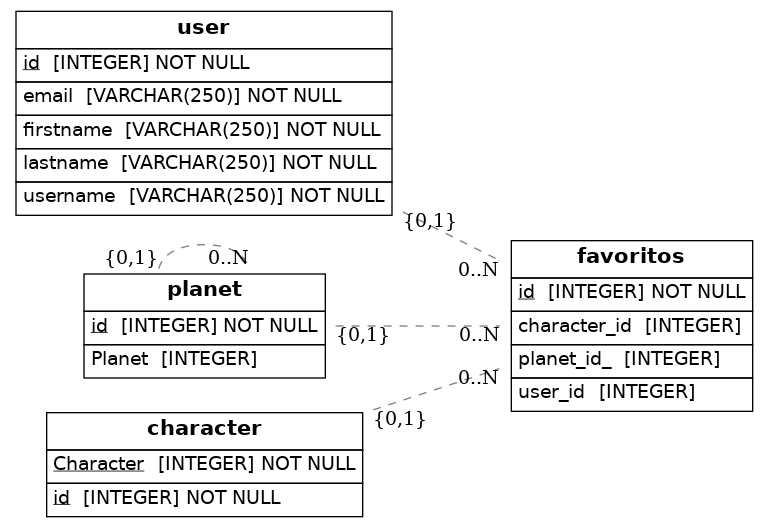
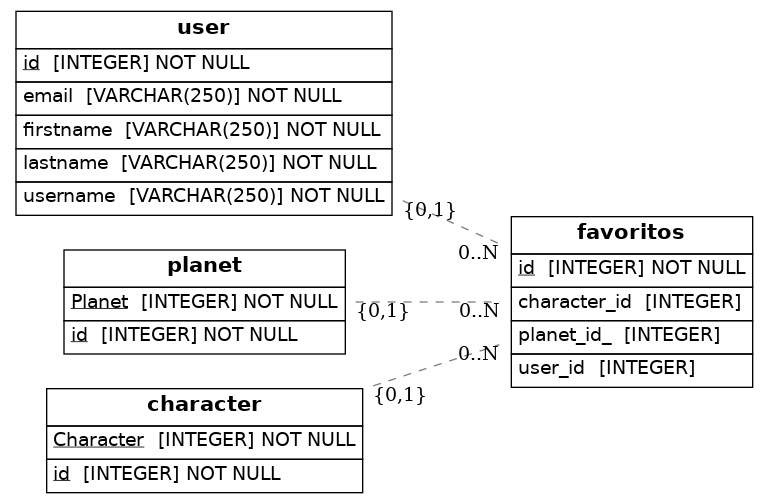
listo

Changed region(s): [[0.0625, 0.4175, 0.9688, 0.9841], [0.0, 0.0, 0.5938, 0.4473]]

diff --git a/src/models.py b/src/models.py
@@ -29,7 +29,7 @@ class Favoritos (Base):
 class Planet (Base):
     __tablename__='planet'
     id=Column (Integer,primary_key=True)
-    Planet=Column(Integer,ForeignKey('planet.id'))
+    Planet=Column(Integer,primary_key=True)
     planet=relationship(Favoritos)
 
 
